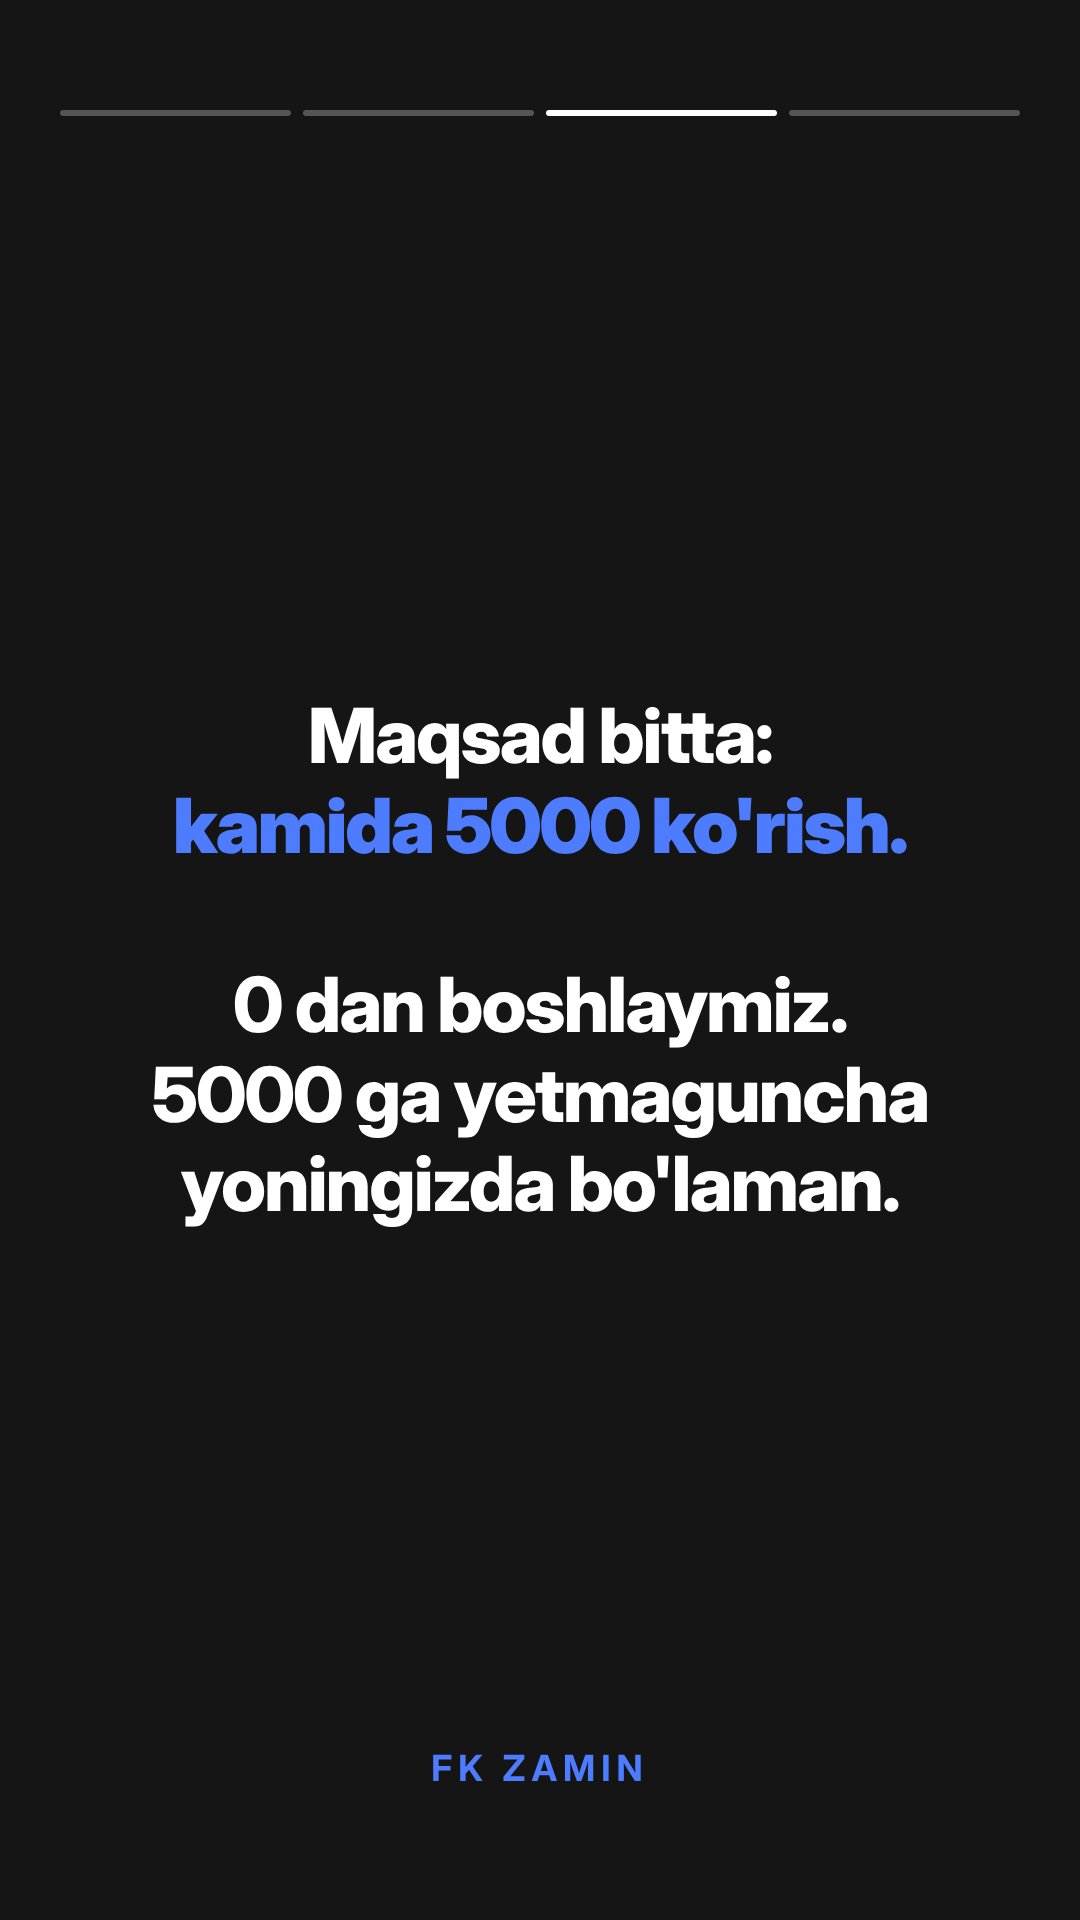
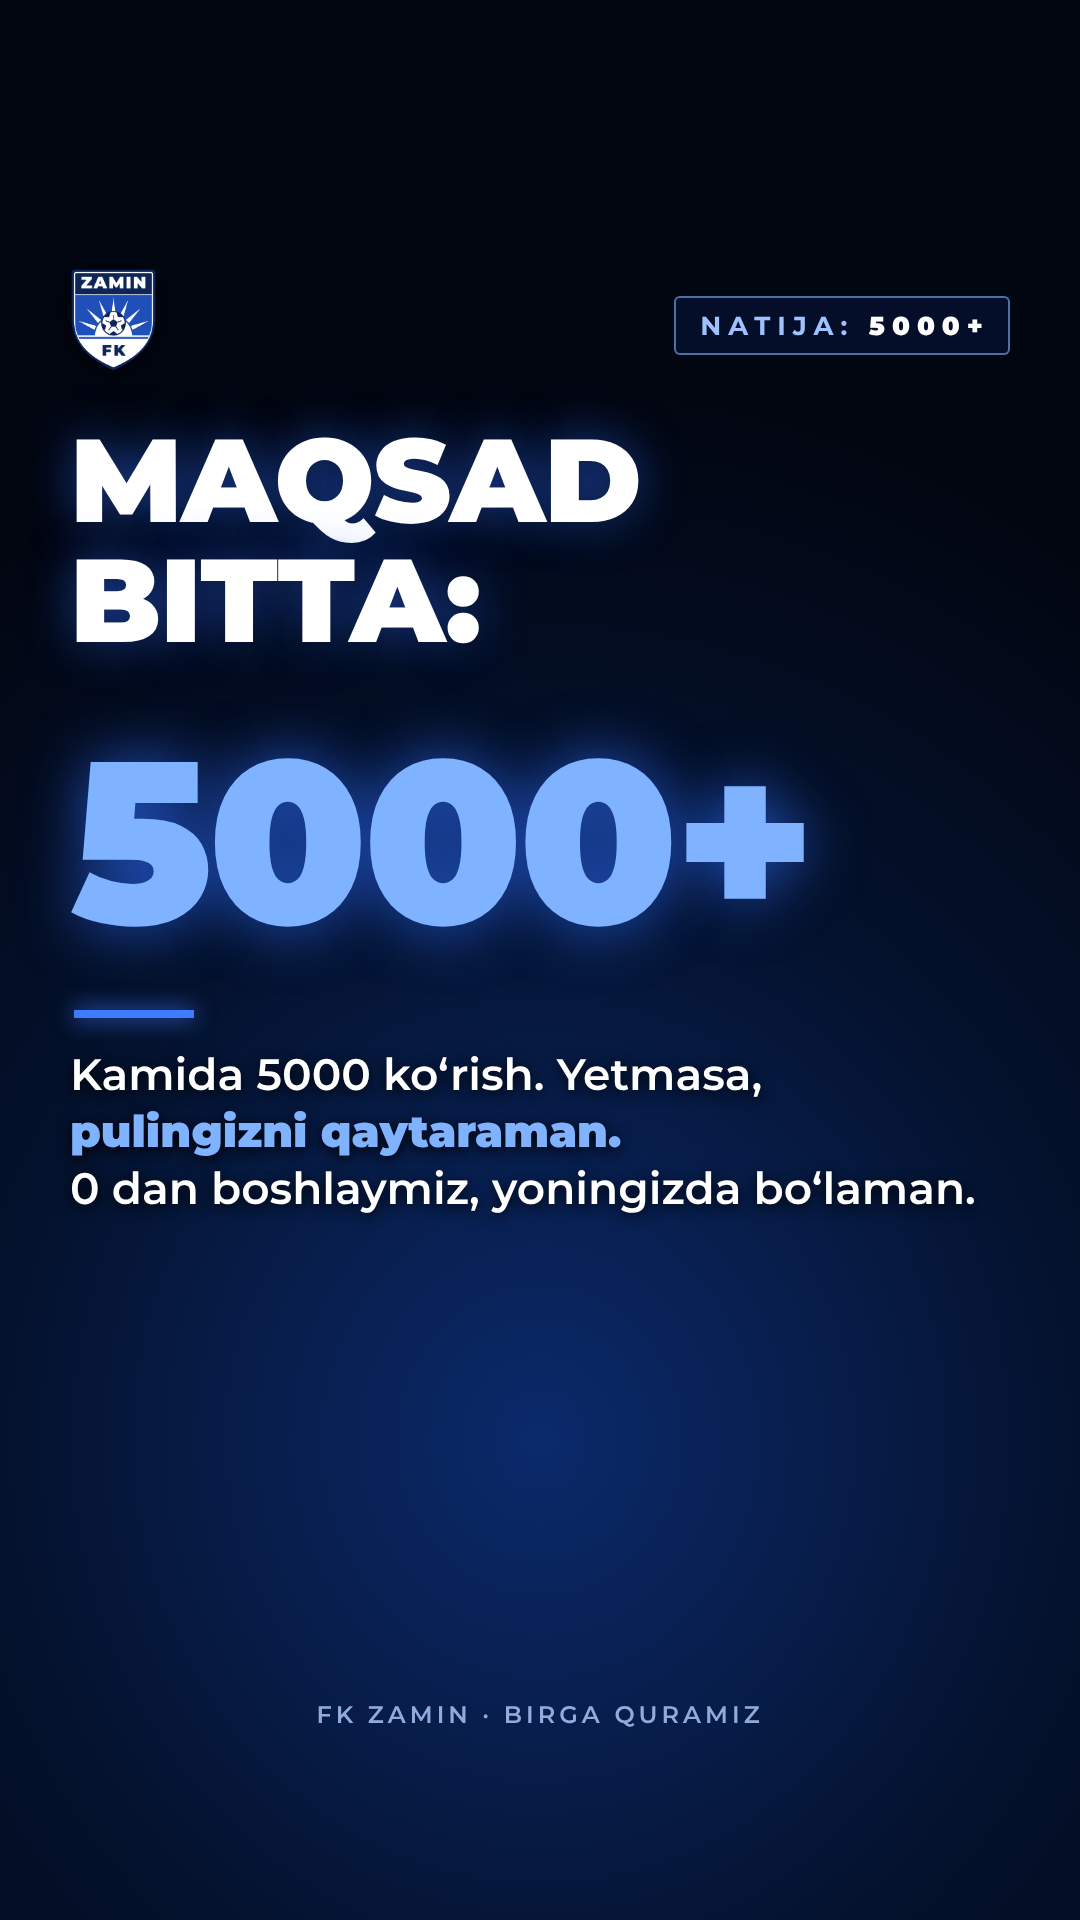
Rebuild offer stories in ZAMIN FK style, add refund guarantee
Claude-Session: https://claude.ai/code/session_017oAb5KmfRX4Ckxqz9EybTr

diff --git a/ZAMIN_FK/stories_offer/render.js b/ZAMIN_FK/stories_offer/render.js
@@ -1,0 +1,33 @@
+// Offer stories in ZAMIN FK style (Montserrat, navy/blue glow, crest). Run: node render.js
+const {chromium}=require('playwright');const path=require('path');
+const A=path.resolve(__dirname,'..');
+const S=[
+ {h:'DO‘STLAR,<br>SHU KABI<br><em>LOYIHANI</em><br>0 DAN',q:'Birga quramiz. Jamoa bilan, haqiqiy natija bilan.<br>Nima deysiz?',label:'LOYIHA: <b>BIRGA</b>',poll:true},
+ {h:'BU <em>KURS</em><br>EMAS.',q:'10 kishi. Har kim o‘z loyihasini quradi.<br>Men yetaklayman, jamoa bo‘lib ishlaymiz.',label:'JAMOA: <b>10 KISHI</b>'},
+ {h:'MAQSAD<br>BITTA:',big:'<em>5000+</em>',q:'Kamida 5000 ko‘rish. Yetmasa, <b>pulingizni qaytaraman.</b><br>0 dan boshlaymiz, yoningizda bo‘laman.',label:'NATIJA: <b>5000+</b>'},
+ {h:'FAQAT<br><em>10 TA</em><br>JOY.',q:'Jamoaga qo‘shilmoqchimisiz?<br>DM ga <b>“LOYIHA”</b> deb yozing 👇',label:'QOLDI: <b>10 JOY</b>'},
+];
+const css=`@font-face{font-family:M;font-weight:600;src:url(file://${A}/web/city/assets/fonts/Montserrat_600SemiBold.ttf)}
+@font-face{font-family:M;font-weight:700;src:url(file://${A}/web/city/assets/fonts/Montserrat_700Bold.ttf)}
+@font-face{font-family:M;font-weight:900;src:url(file://${A}/web/city/assets/fonts/Montserrat_900Black.ttf)}
+html,body{margin:0;background:#000}
+#s{position:relative;width:1080px;height:1920px;overflow:hidden;font-family:M,sans-serif;color:#fff;background:radial-gradient(ellipse 90% 55% at 50% 75%,#0b2a6b 0%,#04122e 55%,#020611 100%)}
+#crest{position:absolute;left:70px;top:268px;height:104px;filter:drop-shadow(0 4px 14px rgba(0,0,0,.7))}
+#label{position:absolute;right:70px;top:296px;font-weight:700;font-size:26px;letter-spacing:7px;color:#9fc2ff;border:2px solid rgba(127,178,255,.6);padding:12px 18px 11px 24px;border-radius:6px;background:rgba(8,22,60,.55)}
+#label b{color:#fff;font-weight:900}
+#h{position:absolute;left:70px;right:70px;top:420px;font-weight:900;font-size:118px;line-height:1.02;letter-spacing:-1px;text-shadow:0 0 46px rgba(46,110,255,.55),0 6px 26px rgba(0,0,0,.8)}
+#h em,#big em{font-style:normal;color:#7fb2ff}
+#big{position:absolute;left:70px;top:700px;font-weight:900;font-size:230px;letter-spacing:-4px;text-shadow:0 0 60px rgba(46,110,255,.7)}
+#bar{position:absolute;left:74px;width:120px;height:8px;background:#3f7bff;box-shadow:0 0 22px #3f7bff}
+#q{position:absolute;left:70px;right:70px;font-weight:600;font-size:44px;line-height:1.3;text-shadow:0 3px 14px rgba(0,0,0,.9)}
+#q b{color:#7fb2ff;font-weight:900}
+#poll{position:absolute;right:70px;top:1330px;width:620px;background:#fff;border-radius:36px;padding:40px;text-align:center;font-size:40px;font-weight:600;color:#111}
+#poll div{margin-top:28px;background:#ddd;border-radius:20px;padding:26px;font-size:30px;color:#777;font-weight:400}
+#tiny{position:absolute;left:0;right:0;top:1700px;text-align:center;font-weight:600;font-size:24px;letter-spacing:4px;color:#a9c4f5;opacity:.85}`;
+(async()=>{const b=await chromium.launch({args:['--allow-file-access-from-files']});const pg=await b.newPage({viewport:{width:1080,height:1920}});
+for(let i=0;i<S.length;i++){const s=S[i];
+ const lines=(s.h.match(/<br>/g)||[]).length+1; const hEnd=420+lines*120; const barTop=s.big?1010:hEnd+30;
+ const html=`<style>${css}</style><div id=s><img id=crest src="file://${A}/03_Approved_Assets/ZFK_CREST_MASTER_V01_P_2048.png"><div id=label>${s.label}</div><div id=h>${s.h}</div>${s.big?`<div id=big>${s.big}</div>`:''}<div id=bar style="top:${barTop}px"></div><div id=q style="top:${barTop+36}px">${s.q}</div>${s.poll?'<div id=poll>Fikringiz muhim!<div>Type something...</div></div>':''}<div id=tiny>FK ZAMIN · BIRGA QURAMIZ</div></div>`;
+ const f=path.join(__dirname,`_tmp${i}.html`);require('fs').writeFileSync(f,'<meta charset=utf-8>'+html);await pg.goto('file://'+f);await pg.waitForTimeout(400);
+ await pg.screenshot({path:path.join(__dirname,`story_0${i+1}.png`)});}
+await b.close();require('fs').readdirSync(__dirname).filter(x=>x.startsWith('_tmp')).forEach(x=>require('fs').unlinkSync(path.join(__dirname,x)));})();
